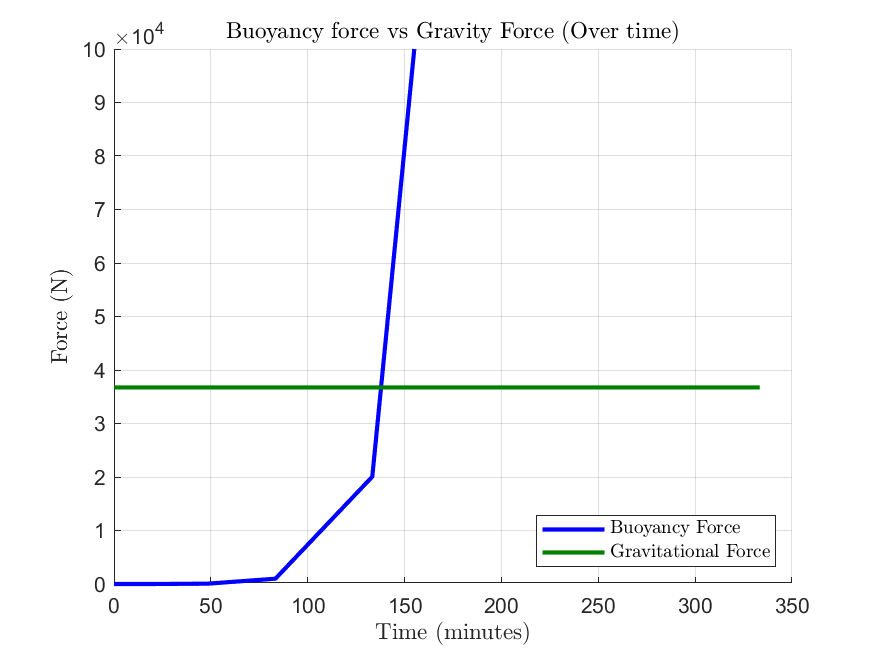
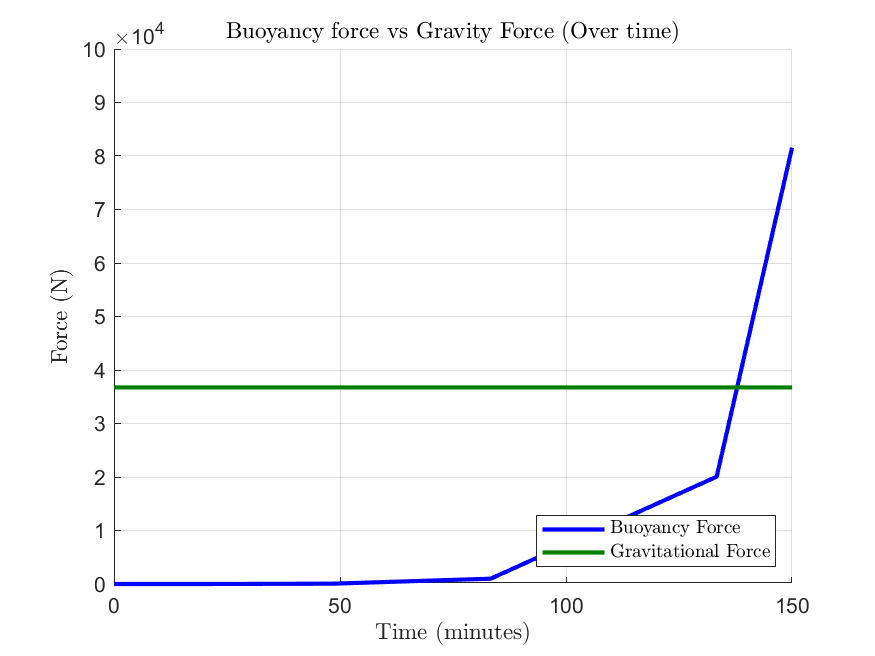
Updated plots for OPR#3 to include snatch force

diff --git a/scripts/Balloon_Probe_EDL.m b/scripts/Balloon_Probe_EDL.m
@@ -140,6 +140,7 @@ for i = 1:width(dataTable)
     xline((50 * 100)/60, 'k--', 'Label', 'Separation Child 1');
 end
 
+P = abs(P);
 % Pressure at Alitutde Plot
 figure;
 hold on
@@ -210,6 +211,7 @@ xlabel('Time (minutes)','Interpreter','latex');
 ylabel('Force (N)','Interpreter','latex');
 legend({'Buoyancy Force','Gravitational Force'}, 'Location', 'southeast','Interpreter','latex');
 ylim([0, 1E5])
+xlim([0,150])
 grid on
 saveas(gcf, 'buoyancyVsTime.png');
 
@@ -262,9 +264,20 @@ title('Density vs Altitude (Over time)','Interpreter','latex')
 xlabel('Density (kg/m^3)','Interpreter','latex');
 ylabel('Altitude (km)','Interpreter','latex');
 ylim([40,100])
-% legend({'Density','Gravitational Force'}, 'Location', 'southeast','Interpreter','latex');
 grid on
 saveas(gcf, 'DensityVsAltitude.png');
+
+%% Snatch Force
+figure;
+hold on
+plot((dataTable.t * 100)/60, P(:,2), 'LineWidth',2,'Color','blue') 
+title('Snatch force vs. Time','Interpreter','latex')
+xlabel('Time (minutes)','Interpreter','latex');
+ylabel('Snatch Force (N)','Interpreter','latex');
+grid on
+saveas(gcf, 'Snatch Force vs. Time.png');
+
+
 % %% Orbital Elements to RVs 
 % mu = 324859; % [km^3/s^2]
 % dataTable.Semimajor = dataTable.Semimajor + 6052 * 1000;
